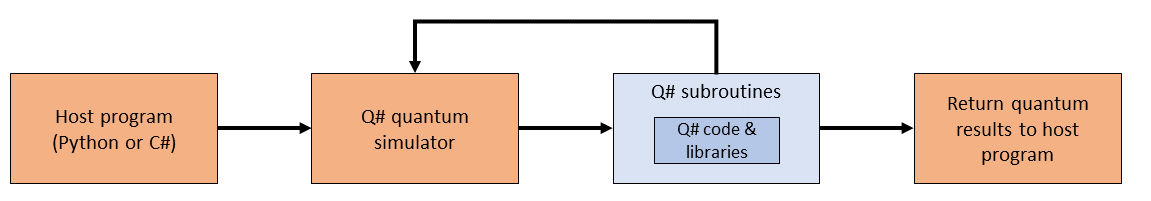
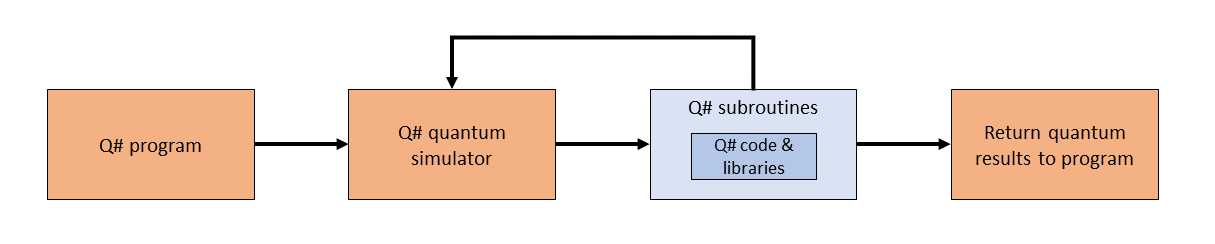
updates from feedback

Changed region(s): [[0.0, 0.0896, 0.9731, 0.9254]]

diff --git a/articles/overview/understanding-quantum-computing.md b/articles/overview/understanding-quantum-computing.md
@@ -1,21 +1,22 @@
 ---
 title: Understanding quantum computing
-description: What are quantum computers and how do they use the principles of quantum physics?
+description: What are quantum computers and how do they use the principles of quantum mechanics?
 author: bradben
 ms.author:  bradben
-ms.date: 04/22/2020
+ms.date: 5/5/2020
 ms.topic: overview
 uid: microsoft.quantum.overview.understanding
 ---
 
 # Understanding quantum computing
 
-Quantum computing uses the principles of quantum physics to process information. Because of this, quantum computing requires a different approach than classical computing.  One example of this is the processor used in quantum computers.  Where classical computers use familiar silicon-based chips, quantum computers use quantum particles such atoms, ions, photons, or electrons.  
+Quantum computing uses the principles of quantum mechanics to process information. Because of this, quantum computing requires a different approach than classical computing.  One example of this is the processor used in quantum computers.  Where classical computers use familiar silicon-based chips, quantum computers use quantum material such as atoms, ions, photons, or electrons.  
 
-These quantum particles behave according to the laws of quantum physics, leveraging concepts such as probabilistic computation, superposition, and entanglement, which provide the basis for quantum algorithms that harness the power of quantum computing to solve complex problems. This article describes some of the essential concepts of quantum physics on which quantum computing is based.
+This quantum material behaves according to the laws of quantum mechanics, leveraging concepts such as probabilistic computation, superposition, and entanglement, which provide the basis for quantum algorithms that harness the power of quantum computing to solve complex problems. This article describes some of the essential concepts of quantum mechanics on which quantum computing is based.
 
-## A bird’s-eye view of quantum physics
-Quantum physics, also called quantum mechanics or quantum theory, is a branch of physics that deals with particles at the atomic and subatomic levels. At the quantum level, however, many of the laws of physics you take for granted don’t apply. Superposition, quantum measurement, and entanglement are three phenomena that are central to quantum computing.  
+## A bird’s-eye view of quantum mechanics
+
+Quantum mechanics, also called quantum theory, is a branch of physics that deals with particles at the atomic and subatomic levels. At the quantum level, however, many of the laws of mechanics you take for granted don’t apply. Superposition, quantum measurement, and entanglement are three phenomena that are central to quantum computing.  
 
 ### Superposition vs. binary computing
 
@@ -23,7 +24,7 @@ Imagine that you are exercising in your living room. You turn all the way to you
 
 However, if you were a quantum particle, then you could be *facing left* AND *facing right* AND *anywhere in-between* at the same time due to a phenomenon known as **superposition** (also known as **coherence**).
 
-A quantum particle such as an electron has its own “facing left or facing right” property called **spin**, which can be either up or down (or positive or negative for a photon), or to make it more relatable to classical binary computing, let’s just say 1 or 0. When a quantum particle is in a superposition state, it’s a linear combination of an infinite number of states between 1 and 0, but you don’t know which one it will be until you actually look at it, which brings up our next phenomenon, **quantum measurement**.
+A quantum particle such as an electron has its own “facing left or facing right” property called **spin**, generally referred to as either up or down, or to make it more relatable to classical binary computing, let’s just say 1 or 0. When a quantum particle is in a superposition state, it’s a linear combination of an infinite number of states between 1 and 0, but you don’t know which one it will be until you actually look at it, which brings up our next phenomenon, **quantum measurement**.
 
 ### Quantum measurement
 
@@ -33,25 +34,25 @@ But if you’re a quantum particle, an interesting thing happens. No matter wher
 
 This is because the act of observing or measuring a quantum particle **collapses** the superposition state (also known as **decoherence**) and the particle takes on a classical binary state of either 1 or 0.
 
-This binary state is helpful to us, because in computing you can do lots of things with 1’s and 0’s. However, once a quantum particle has been measured and collapsed, it stays in that state forever (just like your picture) and will always be a 1 or 0, and cannot be used for more calculations. As you’ll see later, though, in quantum computing there are operations that can “reset” a particle back to a superposition state so it can be useful again.
+This binary state is helpful to us, because in computing you can do lots of things with 1’s and 0’s. However, once a quantum particle has been measured and collapsed, it stays in that state forever (just like your picture) and will always be a 1 or 0. As you’ll see later, though, in quantum computing there are operations that can “reset” a particle back to a superposition state so it can be used for quantum calculations again.
 
 ### Entanglement
 
-Possibly the most interesting phenomenon of quantum physics is the ability of two or more quantum particles to become **entangled** with each other. When particles become entangled, they form a single system such that the quantum state of any one particle cannot be described independently of the quantum state of the other particles. This means that whatever operation or process you apply to one particle correlates to the other particles as well, almost instantaneously.
+Possibly the most interesting phenomenon of quantum mechanics is the ability of two or more quantum particles to become **entangled** with each other. When particles become entangled, they form a single system such that the quantum state of any one particle cannot be described independently of the quantum state of the other particles. This means that whatever operation or process you apply to one particle correlates to the other particles as well, almost instantaneously.
 
-In addition to this interdependency, particles can maintain this connection even when separated over incredibly large distances, even light-years. The effects of quantum measurement also apply to entangled particles, such that when one particle is measured and collapses, the other particle collapses as well. Because there is a correlation between the entangled qubits, measuring the state of one qubit provides information about the state of the other qubit – this particular property is very helpful in quantum computing. These unique properties of entangled particles can be used to transmit quantum information from one place to another by a process called **teleportation**, and can play a role in some cryptography processes.
+In addition to this interdependency, particles can maintain this connection even when separated over incredibly large distances, even light-years. The effects of quantum measurement also apply to entangled particles, such that when one particle is measured and collapses, the other particle collapses as well. Because there is a correlation between the entangled qubits, measuring the state of one qubit provides information about the state of the other qubit – this particular property is very helpful in quantum computing. These unique properties of entangled particles can be used to transmit quantum information from one place to another by a process called **teleportation**.
 
 ### Qubits and probability
 
-Classical computers store and process information in bits, which can have a state of either 1 or 0, but never both. The equivalent in quantum computing is the **qubit**, which represents the state of a quantum particle. Because of superposition, qubits can either be 1 or 0, or both, or anything in between. Depending on its configuration, a qubit has a certain *probability* of collapsing to 1 or 0, and this probabilistic state is where the power of quantum computing excels.
+Classical computers store and process information in bits, which can have a state of either 1 or 0, but never both. The equivalent in quantum computing is the **qubit**, which represents the state of a quantum particle. Because of superposition, qubits can either be 1 or 0 or anything in between. Depending on its configuration, a qubit has a certain *probability* of collapsing to 1 or 0, and this probabilistic state is where the power of quantum computing excels.
 
-In classical computing, uncertainty is not a good thing. In quantum computing, uncertainty is built-in.
+In classical computing, uncertainty is usually not a good thing. In quantum computing, it's a built-in asset.
 
 For example, with two bits in a classical computer, each bit can store 1 or 0, so together you can store four possible values – **00**, **01**, **10**, and **11** – but only one of those at a time. With two qubits in superposition, however, each qubit can store 1 or 0 or *both*, so you can represent the same four values simultaneously. With three qubits, you can store eight values, with four qubits, you can store 16 values, and so on. Furthermore, when multiple entangled qubits are in superposition, they can process multiple options simultaneously.
 
 ## Summary
 
-These concepts just scratch the surface of quantum physics, but are fundamentally important concepts to know for quantum computing.
+These concepts just scratch the surface of quantum mechanics, but are fundamentally important concepts to know for quantum computing.
 
 - **Superposition** - The ability of quantum particles to hold multiple states at once.
 - **Quantum measurement** - The act of observing a quantum particle in superposition and collapsing it to a binary state.

diff --git a/articles/overview/algebra-for-quantum-computing.md b/articles/overview/algebra-for-quantum-computing.md
@@ -3,7 +3,7 @@ title: Linear algebra for quantum computing
 description: Learn what basic linear algebra concepts are needed to understand quantum computing
 author: bradben
 ms.author:  bradben
-ms.date: 04/22/2020
+ms.date: 5/5/2020
 ms.topic: overview
 uid: microsoft.quantum.overview.algebra
 ---
@@ -12,32 +12,67 @@ uid: microsoft.quantum.overview.algebra
 
 Linear algebra is the language of quantum computing. Although you don’t need to know it to implement or write quantum programs, be aware that it is widely used to describe qubit states, quantum operations, and to predict what a quantum computer will do in response to a sequence of instructions.
 
-Just like the basic concepts of quantum physics, knowing some basic linear algebra can help you understand how quantum computing and quantum algorithms work. At the very least, you’ll want to be familiar with **vectors** and **matrix multiplication**. If you need to refresh your knowledge of these algebra concepts, see these open-source tutorials:
+Just like being familiar with the [basic concepts of quantum physics](xref:microsoft.quantum.overview.understanding) can help you understand quantum computing, knowing some basic linear algebra can help you understand how quantum algorithms work. At the very least, you’ll want to be familiar with **vectors** and **matrix multiplication**. If you need to refresh your knowledge of these algebra concepts, here are some tutorials that cover the basics:
 
 - [Jupyter notebook tutorial on linear algebra](https://github.com/microsoft/QuantumKatas/tree/master/tutorials/LinearAlgebra)
 - [Jupyter notebook tutorial on complex arithmetic](https://github.com/microsoft/QuantumKatas/tree/master/tutorials/ComplexArithmetic)
+- [Linear Algebra for Quantum Computation](https://cds.cern.ch/record/1522001/files/978-1-4614-6336-8_BookBackMatter.pdf)
+- [Fundamentals of Linear Algebra](https://www.math.ubc.ca/~carrell/NB.pdf)
+- [Quantum Computation Primer](https://www.codeproject.com/Articles/5155638/Quantum-Computation-Primer-Part-1#exploring-quantum-superposition)
 
 ## Vectors and matrices in quantum computing
 
-The state of a qubit, whether it’s 1 or 0 or a superposition of both, is described as a vector and is represented by a single column **matrix** $\begin{bmatrix} a \\\\  b \end{bmatrix}$. It is also known as a **quantum state vector** and must meet the requirement that $|a|^2 + |b|^2 = 1$.  The elements of the matrix represent the probability of the qubit collapsing one way or the other, with $a$ being the probability of collapsing to zero, and $b$ being the probability of collapsing to one. The following matrices all represent valid quantum state vectors:
+In [Understanding quantum computing](xref:microsoft.quantum.overview.understanding,), you saw that a qubit can be in a state of 1 or 0 or a superposition or both. Using linear algebra, the state of a qubit is described as a vector and is represented by a single column **matrix** $\begin{bmatrix} a \\\\  b \end{bmatrix}$. It is also known as a **quantum state vector** and must meet the requirement that $|a|^2 + |b|^2 = 1$.  
+
+The elements of the matrix represent the probability of the qubit collapsing one way or the other, with $|a|^2$ being the probability of collapsing to zero, and $|b|^2$ being the probability of collapsing to one. The following matrices all represent valid quantum state vectors:
 
 $$\begin{bmatrix} 1 \\\\  0 \end{bmatrix}, \begin{bmatrix} 0 \\\\  1 \end{bmatrix}, \begin{bmatrix} \frac{1}{\sqrt{2}} \\\\  \frac{1}{\sqrt{2}} \end{bmatrix}, \begin{bmatrix} \frac{1}{\sqrt{2}} \\\\  \frac{-1}{\sqrt{2}} \end{bmatrix}, \text{ and }\begin{bmatrix} \frac{1}{\sqrt{2}} \\\\  \frac{i}{\sqrt{2}} \end{bmatrix}.$$
 
-A quantum operation (or quantum gate) is also a matrix. When a quantum operation is applied to a quantum state vector (a qubit), the two matrices are multiplied and the resulting answer represents the new state of the qubit after the operation.  Here are two common quantum operations represented with matrix multiplication:
+In [Quantum computers and quantum simulators](xref:microsoft.quantum.overview.simulators) you also saw that quantum operations are used to modify the state of a qubit.  Quantum operations can also be represented by a matrix. When a quantum operation is applied to a qubit, the two matrices that represent them are multiplied and the resulting answer represents the new state of the qubit after the operation.  
 
-The Pauli-X operation $\begin{bmatrix}0 &1\\\\ 1 &0\end{bmatrix}$ flips the state of a qubit from 0 to 1 and vice-versa.
+Here are two common quantum operations represented with matrix multiplication.
 
-$$\begin{bmatrix}0 &1\\\\ 1 &0\end{bmatrix}\begin{bmatrix} 1 \\\\  0 \end{bmatrix} = \begin{bmatrix} 0 \\\\  1 \end{bmatrix}$$
 
-The Hadamard operation $\dfrac{1}{\sqrt{2}}\begin{bmatrix}1 &1\\\\ 1 &-1\end{bmatrix}$ puts a qubit into a superposition state where it has an even probability of collapsing either way.
+The [`X` operation](xref:microsoft.quantum.intrinsic.x) is represented by the Pauli matrix $X$,
 
-$$\frac{1}{\sqrt{2}}\begin{bmatrix}1 &1\\\\ 1 &-1\end{bmatrix}\begin{bmatrix} 1 \\\\  0 \end{bmatrix}=\frac{1}{\sqrt{2}}\begin{bmatrix} 1 \\\\  1 \end{bmatrix}=\left(\frac{1}{\sqrt{2}}\right)^2=\frac{1}{2}$$
+$$X = \begin{bmatrix}
+        0 & 1 \\\\
+        1 & 0
+    \end{bmatrix},$$
+    
+and is used to flip the state of a qubit from 0 to 1 (or vice-versa), for example
+
+$$\begin{bmatrix}0 &1\\\\ 1 &0\end{bmatrix}\begin{bmatrix} 1 \\\\  0 \end{bmatrix} = \begin{bmatrix} 0 \\\\  1 \end{bmatrix}.$$
+
+The ['H' operation](xref:microsoft.quantum.intrinsic.h) is represented by the Hadamard transformation $H$,
+
+$$H = \dfrac{1}{\sqrt{2}}\begin{bmatrix}1 &1\\\\ 1 &-1\end{bmatrix},$$
+
+ and puts a qubit into a superposition state where it has an even probability of collapsing either way, as shown here
+
+$$\frac{1}{\sqrt{2}}\begin{bmatrix}1 &1\\\\ 1 &-1\end{bmatrix}\begin{bmatrix} 1 \\\\  0 \end{bmatrix}=\frac{1}{\sqrt{2}}\begin{bmatrix} 1 \\\\  1 \end{bmatrix}=\left(\frac{1}{\sqrt{2}}\right)^2=\frac{1}{2}.$$
 
 A matrix that represents a quantum operation has one requirement – it must be a **unitary** matrix. This means that the **inverse** of the matrix must be equal to the **conjugate transpose** of the matrix.
 
+## Representing two-qubit states
+
+In the examples above, the state of one qubit was described using a single column matrix $\begin{bmatrix} a \\\\  b \end{bmatrix}$, and applying an operation to it was described by multiplying the two matrices. However, quantum computers use more than one qubit, so how do you describe the combined state of two qubits? 
+
+Remember that each qubit is a vector space, so they can't just be multiplied. Instead, you use a **tensor product**, which is a related operation that creates a new vector space from individual vector spaces, and is represented by the $\otimes$ symbol. For example, the tensor product of two qubit states $\begin{bmatrix} a \\\\  b \end{bmatrix}$ and $\begin{bmatrix} c \\\\  d \end{bmatrix}$ is calculated
+
+$$
+\begin{bmatrix} a \\\\  b \end{bmatrix} \otimes \begin{bmatrix} c \\\\  d \end{bmatrix} 
+=\begin{bmatrix} a \begin{bmatrix} c \\\\  d \end{bmatrix} \\\\ b \begin{bmatrix}c \\\\  d \end{bmatrix} \end{bmatrix}
+= \begin{bmatrix} ac \\\\  ad \\\\  bc \\\\  bd \end{bmatrix}.
+$$
+
+The result is a four-dimensional matrix, with each element representing a probability. For example, $ac$ is the probability of the two qubits collapsing to 0 and 0, $ad$ is the probability of 0 and 1, and so on. 
+
+Just as a single qubit state $\begin{bmatrix} a \\\\  b \end{bmatrix}$ must meet the requirement that $|a|^2 + |b|^2 = 1$ in order to represent a quantum state, a two-qubit state $\begin{bmatrix} ac \\\\  ad \\\\  bc \\\\  bd \end{bmatrix}$ must meet the requirement that $|a|^2 + |b|^2 + |c|^2+ |d|^2 = 1$.
+
 ## Summary
 
-Linear algebra is the standard language for describing quantum computing and quantum physics. Even though the libraries included with the Microsoft Quantum Development Kit will help you run advanced quantum algorithms without diving into the underlying math, understanding the basics will help you get started quickly and provide a solid foundation to build on.
+Linear algebra is the standard language for describing quantum computing and quantum physics. Even though the [libraries](xref:microsoft.quantum.libraries) included with the Microsoft Quantum Development Kit will help you run advanced quantum algorithms without diving into the underlying math, understanding the basics will help you get started quickly and provide a solid foundation to build on.
 
 ## Next steps
 

diff --git a/articles/overview/what-is-qsharp-and-qdk.md b/articles/overview/what-is-qsharp-and-qdk.md
@@ -3,24 +3,24 @@ title: What is the Q# programming language and QDK?
 description: Learn about the Microsoft Quantum Development Kit, the Q# programming language, and how you can create quantum programs.
 author: bradben
 ms.author:  bradben
-ms.date: 04/22/2020
+ms.date: 5/5/2020
 ms.topic: overview
 uid: microsoft.quantum.overview.q-sharp
 ---
 
 # What is the Q# programming language and QDK?
 
-Q# is Microsoft’s open-source programming language for developing and running quantum algorithms. It’s part of the Quantum Development Kit (QDK), which includes Q# libraries, quantum simulators, extensions for other programming environments, and API documentation. In addition the Standard Q# library, the QDK includes Chemistry, Machine Learning, and Numeric libraries.
+Q# is Microsoft’s open-source programming language for developing and running quantum algorithms. It’s part of the Quantum Development Kit (QDK), which includes [Q# libraries](xref:microsoft.quantum.libraries), [quantum simulators](xref:microsoft.quantum.machines), [extensions for other programming environments](xref:microsoft.quantum.install), and [API documentation](https://docs.microsoft.com/qsharp/api/). In addition the Standard Q# library, the QDK includes Chemistry, Machine Learning, and Numeric libraries.
 
 As a programming language, Q# draws familiar elements from Python, C#, and F# and supports a basic procedural model for writing programs with loops, if/then statements, and common data types. It also introduces new quantum-specific data structures and operations.
 
 ## What can I do with the QDK?
 
-The QDK is a full-featured development kit for Q# that you can use with common tools and languages to develop quantum applications that you can run in various environments.
+The QDK is a full-featured development kit for Q# that you can use with common tools and languages to develop quantum applications that you can run in various environments. Q# programs can run as a command-line app, through Jupyter Notebooks, or use a Python or .NET host program.
 
 ### Develop in common tools and environments
 
-Integrate your quantum development with Visual Studio, Visual Studio Code, and Jupyter Notebooks. Use the built-in APIs for pairing your programs with Python and C# host languages.
+Integrate your quantum development with [Visual Studio, Visual Studio Code](xref:xref:microsoft.quantum.install.standalone), and [Jupyter Notebooks](xref:xref:microsoft.quantum.install.jupyter). Use the built-in APIs for pairing your programs with [Python](xref:xref:microsoft.quantum.install.python) and [.NET](xref:xref:microsoft.quantum.install.cs) host languages.
 
 ### Try quantum operations and domain-specific libraries
 
@@ -40,9 +40,9 @@ Run your quantum programs on a full-state quantum simulator, a limited-scope Tof
 
 ## How does Q# work?
 
-A Q# program doesn’t compile into a standalone executable. Instead, it is a collection of subroutines that runs inside a quantum simulator, and is called by another host program that is written either in Python or C#.
+A Q# program can compile into a standalone executable or be called by a host program that is written either in Python or a .NET language.
 
-When you compile and run the host program, it creates an instance of the quantum simulator and passes the Q# code to it. The simulator uses the Q# code to create qubits (simulations of quantum particles) and apply transformations to modify their state. The results of the quantum operations in the simulator are then returned to the host program.  
+When you compile and run the program, it creates an instance of the quantum simulator and passes the Q# code to it. The simulator uses the Q# code to create qubits (simulations of quantum particles) and apply transformations to modify their state. The results of the quantum operations in the simulator are then returned to the program.  
 
 Isolating the Q# code in the simulator ensures that the algorithms follow the laws of quantum physics and can run correctly on quantum computers.
 
@@ -52,13 +52,15 @@ Isolating the Q# code in the simulator ensures that the algorithms follow the la
 
 Everything you need to write and run Q# programs, including the Q# compiler, the Q# libraries, and the quantum simulators, can be installed and run from your local computer. Eventually you will be able to run your Q# programs remotely on an actual quantum computer, but until then the quantum simulators provided with the QDK provide accurate and reliable results.
 
-If you are new to programming, using Python as your host programming platform is the easiest way to get started. Python enjoys widespread use not only among developers, but also scientists, researchers and teachers, and it is easy to learn.
+- Running [Q# from the command line](xref:microsoft.quantum.install.standalone) is the quickest way to get started.
 
-If you already have experience with C# and are familiar with the Visual Studio development environment, there are just a few extensions you need to add to Visual Studio to prepare it for Q#.  
+- If you are familiar with [Python](xref:microsoft.quantum.install.python), you can use it as a host programming platform to get started. Python enjoys widespread use not only among developers, but also scientists, researchers and teachers.
+
+- If you already have experience with [C#, F#, or VB.NET](xref:microsoft.quantum.install.cs) and are familiar with the Visual Studio development environment, there are just a few extensions you need to add to Visual Studio to prepare it for Q#.  
 
 ## Summary
 
-Q# is an open-source programming language for developing quantum programs. It has libraries that let you create complex quantum operations, and quantum simulators to accurately run and test your programs. Q# programs are called from a host program written either in Python or C# and can be written, run, and tested from your local computer.
+Q# is an open-source programming language for developing quantum programs. It has libraries that let you create complex quantum operations, and quantum simulators to accurately run and test your programs. Q# programs can run as standalone apps or be called from a Python or .NET host program, and can be written, run, and tested from your local computer.
 
 ## Next Steps
 

diff --git a/articles/overview/quantum-computers-and-simulators.md b/articles/overview/quantum-computers-and-simulators.md
@@ -3,7 +3,7 @@ title: Quantum computers and quantum simulators
 description: Learn about quantum hardware, quantum simulators, and how quantum operations work.
 author: bradben
 ms.author:  bradben
-ms.date: 04/22/2020
+ms.date: 5/5/2020
 ms.topic: overview
 uid: microsoft.quantum.overview.simulators
 ---
@@ -16,14 +16,12 @@ Quantum simulators are software programs that run on classical computers and mak
 
 ## Quantum hardware
 
-A quantum computer has three primary parts: the qubit storage, a method for transferring signals to the qubits, and a classical computer to run a program and send instructions.
+A quantum computer has three primary parts: an area that houses the qubits, a method for transferring signals to the qubits, and a classical computer to run a program and send instructions.
 
-- The quantum particles used for qubits are fragile and highly sensitive to environmental interferences. For some methods of qubit storage, the unit that houses the qubits is kept at a temperature just above absolute zero to maximize their coherence.  
-- Signals are sent to the qubits using microwaves or lasers.
+- The quantum material used for qubits is fragile and highly sensitive to environmental interferences. For some methods of qubit storage, the unit that houses the qubits is kept at a temperature just above absolute zero to maximize their coherence. Other types of qubit housing use a vacuum chamber to help minimize vibrations and stabilize the qubits.  
+- Signals can be sent to the qubits using a variety of methods including microwaves, laser, and voltage.
 
-Quantum computers face a multitude of challenges to operate correctly.  Labs that hold quantum computers are designed to minimize vibrations, and quantum computers are often sealed in a vacuum chamber to isolate them.  Error correction in quantum computers is a significant issue, and scaling up (adding more qubits) increases the error rate.
-
-Because of these limitations, a quantum PC for your desktop is far in the future, but a commercially-viable lab-based quantum computer is closer.
+Quantum computers face a multitude of challenges to operate correctly. Error correction in quantum computers is a significant issue, and scaling up (adding more qubits) increases the error rate. Because of these limitations, a quantum PC for your desktop is far in the future, but a commercially-viable lab-based quantum computer is closer.
 
 ## Quantum simulators
 
@@ -31,7 +29,9 @@ Quantum simulators that run on classical computers allow you to simulate the exe
 
 ## Topological qubit
 
-Microsoft is developing a quantum computer based on topological qubits. A topological qubit will be less impacted by changes in its environment, therefore reducing the degree of external error correction. Topological qubits feature increased stability and resistance to environmental noise, which means they can more readily scale and remain reliable longer.
+Microsoft is developing a quantum computer based on topological qubits. A topological qubit will be less impacted by changes in its environment, therefore reducing the degree of external error correction required.
+
+Topological qubits feature increased stability and resistance to environmental noise, which means they can more readily scale and remain reliable longer.
 
 ## Microsoft and quantum hardware partnerships
 
@@ -48,7 +48,9 @@ Performing computations on a quantum computer or quantum simulator follow a basi
 
 Initializing and transforming qubits is done using **quantum operations** (sometimes called quantum gates). Quantum operations are similar to logic operations in classical computing, such as AND, OR, NOT, and XOR. An operation can be as basic as flipping a qubit's state from 1 to 0 or entangling a pair of qubits, to using multiple operations in series to affect the probability of a superposed qubit collapsing one way or the other.
 
-Measuring the result of the computation tells us an answer, but not necessarily the correct answer. Because the result is based on the probability that was configured by the quantum operations, quantum computations are run multiple times to get a probability distribution and refine the accuracy of the results.  Assurance that an operation returned a correct answer is known as quantum verification and is a significant challenge in quantum computing.
+> [!NOTE] The [Q# libraries](xref:microsoft.quantum.libraries) provide built-in operations that define complex combinations of lower-level quantum operations. You can use the library operations to transform qubits and to create more complex user-defined operations.  
+
+Measuring the result of the computation tells us an answer, but for some quantum algorithms, not necessarily the correct answer. Because the result of some quantum algorithms is based on the probability that was configured by the quantum operations, these computations are run multiple times to get a probability distribution and refine the accuracy of the results.  Assurance that an operation returned a correct answer is known as quantum verification and is a significant challenge in quantum computing.
 
 ## Summary
 
@@ -56,7 +58,9 @@ Quantum computing shares some of the same concepts as classical computing but ad
 
 - Quantum hardware is expensive and fragile to work with, so quantum simulators are used to write and test programs.
 - Both classical and quantum computers use logic operations (or gates) to prepare computations.
-- Quantum computations return probabilities and are run multiple times to refine the results.
+- Quantum computations return probabilities.
+
+Advancements in quantum hardware and techniques is rapidly changing the field. Here are just a few of the [current developments](https://phys.org/search/?search=quantum+computer&s=0).
 
 ## Next steps
 
